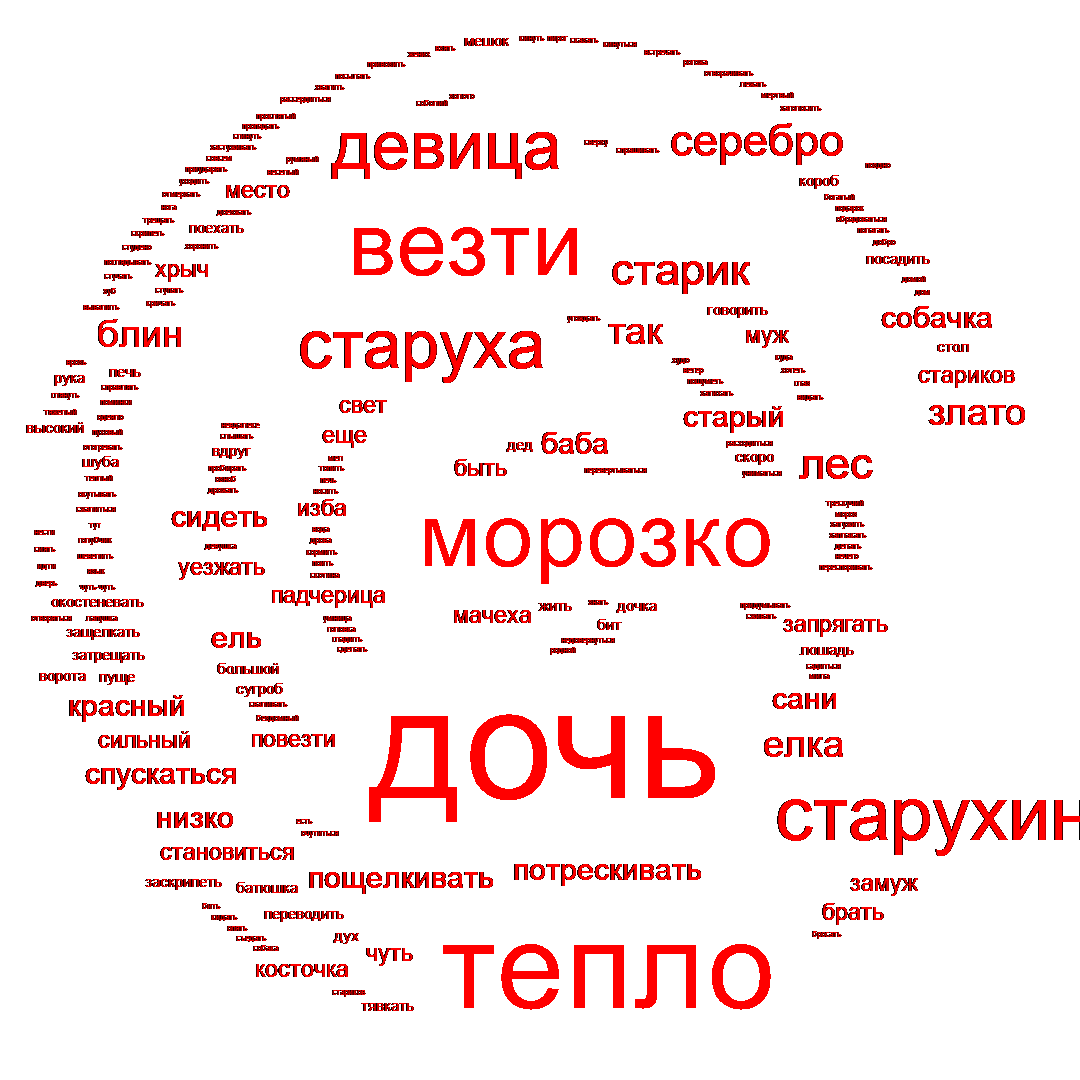
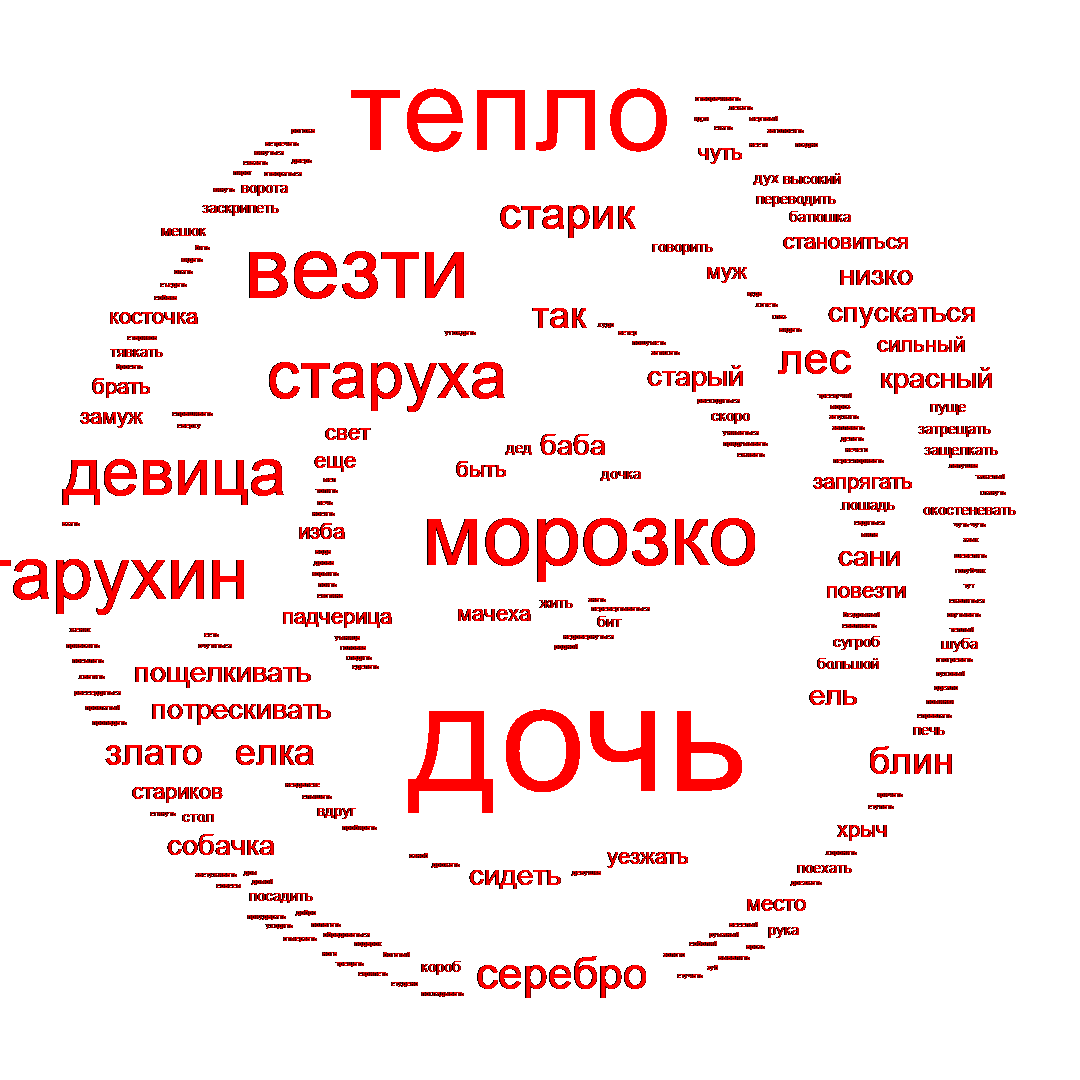
Добавил тест в провайдер расположения слов

Changed region(s): [[0.0, 0.0306, 1.0, 0.9472], [0.4278, 0.4278, 0.4583, 0.4583]]

diff --git a/TagCloud.Tests/VisualizationCloudLayoutTests.cs b/TagCloud.Tests/VisualizationCloudLayoutTests.cs
@@ -65,9 +65,12 @@ public class VisualizationCloudLayoutTests
         visualizationProvider.SettingsProvider.Settings.CloudCompressionRatio.Should().Be(cloudCompressionRatio);
     }
     
-    [TestCase("Morozko.txt", "Morozko.jpeg", ContentStructure.Literary, 2.8f)]
-    [TestCase("GeeseAndSwans.txt", "GeeseAndSwans.png", ContentStructure.Literary, 3.1f)]
-    [TestCase("CheckingCount.txt", "CheckingCount.bmp", ContentStructure.ListOfWords, 0.9f)]
+    [TestCase("Morozko.txt", "Morozko.jpeg",
+        ContentStructure.Literary, 2.8f)]
+    [TestCase("GeeseAndSwans.txt", "GeeseAndSwans.png",
+        ContentStructure.Literary, 3.1f)]
+    [TestCase("CheckingCount.txt", "CheckingCount.bmp",
+        ContentStructure.ListOfWords, 0.9f)]
     public void CreateImage_ImageSizeMustMatchSettings(string fileName, string imageName,
         ContentStructure structure, float cloudCompressionRatio)
     {
@@ -79,12 +82,12 @@ public class VisualizationCloudLayoutTests
         visualizationProvider.SettingsProvider.Settings.CloudCompressionRatio = cloudCompressionRatio;
         
         visualizationProvider.SettingsProvider.Settings.ImageSize = new Size(1080, 1080);
-        CheckSizeMatching(fileName, imageName);
+        CheckSizeMatching(imageName);
         visualizationProvider.SettingsProvider.Settings.ImageSize = new Size(1280, 720);
-        CheckSizeMatching(fileName, imageName);
+        CheckSizeMatching(imageName);
     }
 
-    private void CheckSizeMatching(string fileName, string imageName)
+    private void CheckSizeMatching(string imageName)
     {
         var image = GenerateImage(imageName);
         image.Size.Should().Be(visualizationProvider.SettingsProvider.Settings.ImageSize);

diff --git a/TagCloud.Tests/CircularCloudTests.cs b/TagCloud.Tests/CircularCloudTests.cs
@@ -1,5 +1,6 @@
 using System.Drawing;
 using FluentAssertions;
+using FluentAssertions.Extensions;
 using TagCloud.CloudLayout;
 
 namespace TagCloud.Tests;
@@ -54,5 +55,19 @@ public class CircularCloudTests
 
             listRectangles.Add(rectangle);
         }
+    }
+
+    [Test]
+    public void PutNextRectangle_DegenerateRectangle_ShouldNotGoIntoEndlessLoop()
+    {
+        var call = () =>
+        {
+            var cloudLayouter = new CircularCloud(new Point(500, 500));
+            cloudLayouter.PutNextRectangle(new SizeF(10, 50));
+            cloudLayouter.PutNextRectangle(new SizeF(0, 50));
+            cloudLayouter.PutNextRectangle(new SizeF(10, 0));
+        };
+        
+        call.ExecutionTime().Should().BeLessThanOrEqualTo(3000.Milliseconds());
     }
 }
